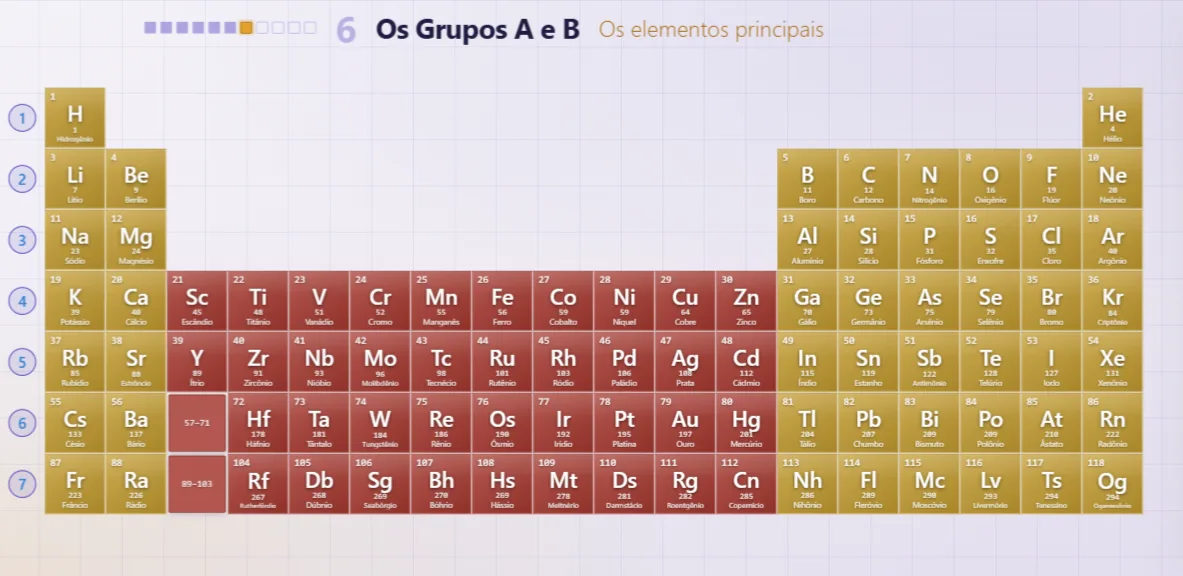
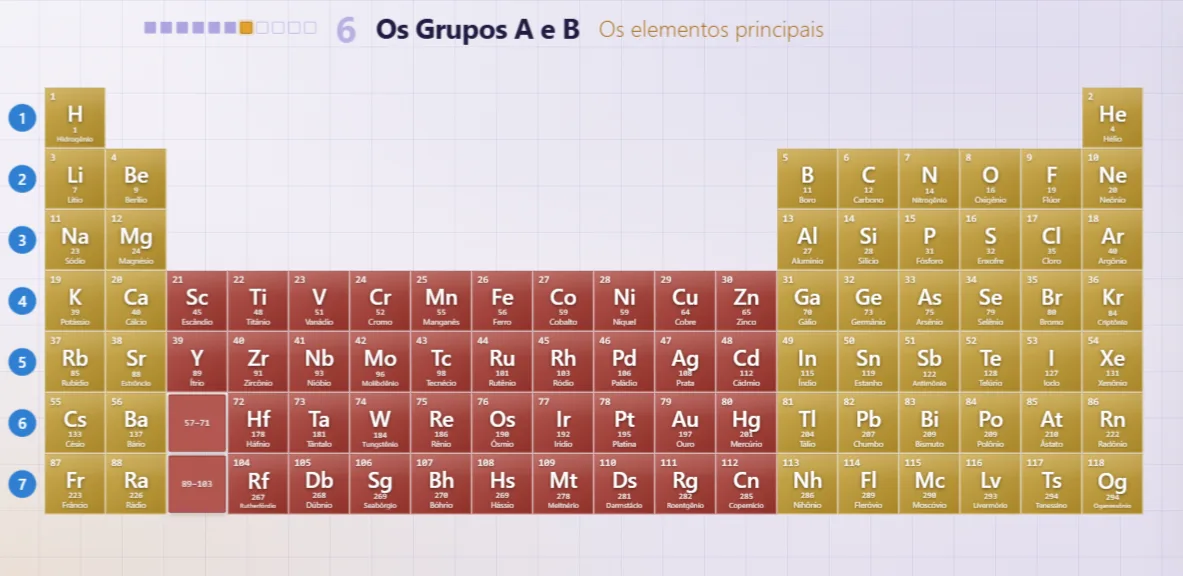
v16.7 · Números das linhas e colunas em círculo cheio, sem contorno (azul e laranja); séries ou períodos e grupos ou famílias na cor da faixa

diff --git a/tabela-periodica.html b/tabela-periodica.html
@@ -613,6 +613,18 @@ html:not(.celular) .mesa[data-slide="3"]{--px:3px;--py:14px;--zoom:.97}
 .eixo[data-grupo].acesa{background:var(--cor-coluna);border-color:var(--cor-coluna);color:#fff}
 .banda-linha{background:rgba(47,127,209,.16);border-color:rgba(47,127,209,.55)}
 .banda-col{background:rgba(224,120,43,.16);border-color:rgba(224,120,43,.55)}
+/* os números em bolinha (o modelo do professor): sem contorno, o círculo
+   todo na cor — azul nas linhas, laranja nas colunas —, e o número em
+   branco; também no escuro do quiz */
+.mesa .eixo.prof, .slide.quiz-escuro .mesa .eixo.prof{border-color:transparent;color:#fff}
+.mesa .eixo.prof[data-periodo], .slide.quiz-escuro .mesa .eixo.prof[data-periodo]{background:var(--cor-linha)}
+.mesa .eixo.prof[data-grupo],   .slide.quiz-escuro .mesa .eixo.prof[data-grupo]{background:var(--cor-coluna)}
+/* os textos do slide 4 na cor da faixa deles: "séries ou períodos" da
+   linha, "grupos ou famílias" da coluna */
+.texto-colunas.texto3 .frase:nth-child(1){color:var(--cor-linha)}
+.texto-colunas.texto3 .frase:nth-child(2){color:var(--cor-coluna)}
+.texto-colunas.texto3 .frase:nth-child(1) .cursor{background:var(--cor-linha)}
+.texto-colunas.texto3 .frase:nth-child(2) .cursor{background:var(--cor-coluna)}
 
 /* a ficha do escolhido, no vazio que a tabela tem acima dos metais de
    transição — o mesmo lugar onde ela mora na aula do professor */
@@ -2476,7 +2488,7 @@ const SLIDES = [
    worker recebe-a no endereço com que é registado (sw.js?v=…). Mudando
    este texto, muda o endereço, o aparelho instala o serviço novo e o
    cache velho vai-se embora — não há uma segunda versão para esquecer. */
-const VERSAO = 'v16.6';
+const VERSAO = 'v16.7';
 
 /* A CAPA NOVA — a ideia do Claude Design: fundo escuro, o título grande e
    claro à esquerda, a tabelinha apagada ao fundo à direita e o sódio, o
